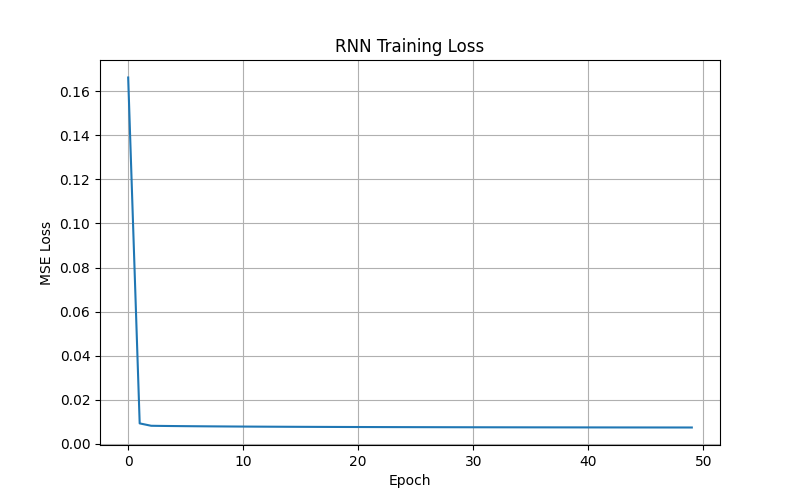
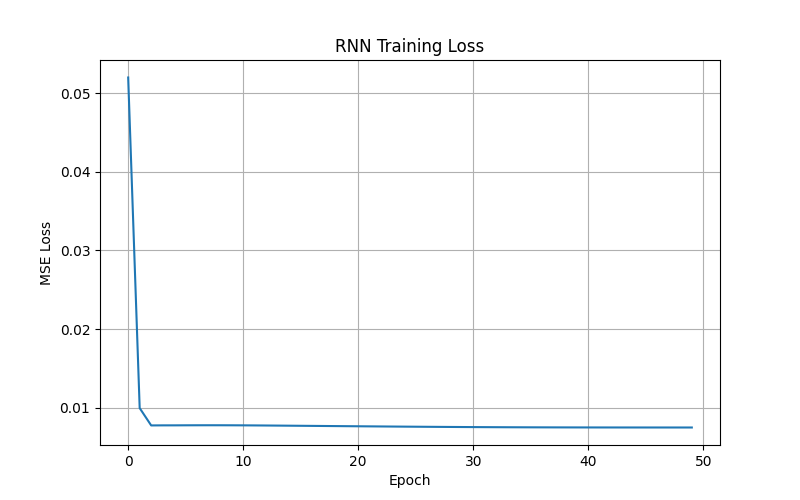
Did a new experiment 11 Experiment 11 as best result

diff --git a/RNN/rnn_stock_prediction.py b/RNN/rnn_stock_prediction.py
@@ -198,7 +198,7 @@ def main():
     model = SimpleRNN(
         input_size=X_train.shape[2],
         hidden_size=32,
-        lr=0.003
+        lr=0.01
     )
 
     ## Train the model and evaluate on the test set